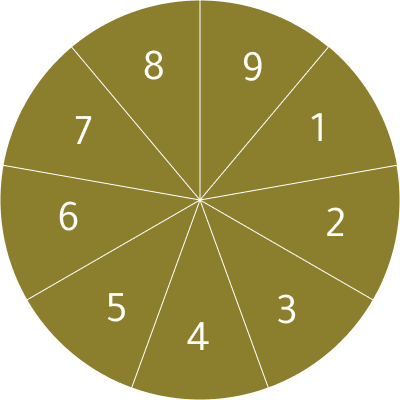
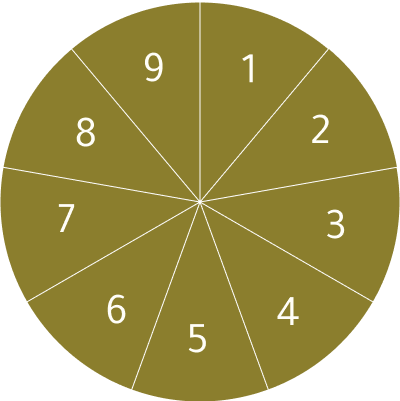
Updates slice angles

diff --git a/lib/src/lib.rs b/lib/src/lib.rs
@@ -49,6 +49,15 @@ const SLICE_6: &[u8] = include_bytes!("../../assets/slice_6.png");
 const SLICE_7: &[u8] = include_bytes!("../../assets/slice_7.png");
 const SLICE_8: &[u8] = include_bytes!("../../assets/slice_8.png");
 const SLICE_9: &[u8] = include_bytes!("../../assets/slice_9.png");
+//const SLICE_DISABLED_1: &[u8] = include_bytes!("../../assets/slice_disabled_1.png");
+//const SLICE_DISABLED_2: &[u8] = include_bytes!("../../assets/slice_disabled_2.png");
+//const SLICE_DISABLED_3: &[u8] = include_bytes!("../../assets/slice_disabled_3.png");
+//const SLICE_DISABLED_4: &[u8] = include_bytes!("../../assets/slice_disabled_4.png");
+//const SLICE_DISABLED_5: &[u8] = include_bytes!("../../assets/slice_disabled_5.png");
+//const SLICE_DISABLED_6: &[u8] = include_bytes!("../../assets/slice_disabled_6.png");
+//const SLICE_DISABLED_7: &[u8] = include_bytes!("../../assets/slice_disabled_7.png");
+//const SLICE_DISABLED_8: &[u8] = include_bytes!("../../assets/slice_disabled_8.png");
+//const SLICE_DISABLED_9: &[u8] = include_bytes!("../../assets/slice_disabled_9.png");
 const TOP_LABEL: &[u8] = include_bytes!("../../assets/top_label.png");
 const WALL: &[u8] = include_bytes!("../../assets/wall.png");
 const WHEEL: &[u8] = include_bytes!("../../assets/wheel.png");
@@ -76,15 +85,24 @@ pub struct Images {
     logo: Handle<Image>,
     mode_slider: Handle<Image>,
     scroll: Handle<Image>,
-    slice_1: Handle<Image>,
-    slice_2: Handle<Image>,
-    slice_3: Handle<Image>,
-    slice_4: Handle<Image>,
-    slice_5: Handle<Image>,
-    slice_6: Handle<Image>,
-    slice_7: Handle<Image>,
-    slice_8: Handle<Image>,
-    slice_9: Handle<Image>,
+    slice_active_1: Handle<Image>,
+    slice_active_2: Handle<Image>,
+    slice_active_3: Handle<Image>,
+    slice_active_4: Handle<Image>,
+    slice_active_5: Handle<Image>,
+    slice_active_6: Handle<Image>,
+    slice_active_7: Handle<Image>,
+    slice_active_8: Handle<Image>,
+    slice_active_9: Handle<Image>,
+    //slice_disabled_1: Handle<Image>,
+    //slice_disabled_2: Handle<Image>,
+    //slice_disabled_3: Handle<Image>,
+    //slice_disabled_4: Handle<Image>,
+    //slice_disabled_5: Handle<Image>,
+    //slice_disabled_6: Handle<Image>,
+    //slice_disabled_7: Handle<Image>,
+    //slice_disabled_8: Handle<Image>,
+    //slice_disabled_9: Handle<Image>,
     top_label: Handle<Image>,
     wall: Handle<Image>,
     wheel: Handle<Image>,
@@ -267,15 +285,15 @@ fn setup(
         logo: images.add(load_png(LOGO)),
         mode_slider: images.add(load_png(MODE_SLIDER)),
         scroll: images.add(load_png(SCROLL)),
-        slice_1: images.add(load_png(SLICE_1)),
-        slice_2: images.add(load_png(SLICE_2)),
-        slice_3: images.add(load_png(SLICE_3)),
-        slice_4: images.add(load_png(SLICE_4)),
-        slice_5: images.add(load_png(SLICE_5)),
-        slice_6: images.add(load_png(SLICE_6)),
-        slice_7: images.add(load_png(SLICE_7)),
-        slice_8: images.add(load_png(SLICE_8)),
-        slice_9: images.add(load_png(SLICE_9)),
+        slice_active_1: images.add(load_png(SLICE_1)),
+        slice_active_2: images.add(load_png(SLICE_2)),
+        slice_active_3: images.add(load_png(SLICE_3)),
+        slice_active_4: images.add(load_png(SLICE_4)),
+        slice_active_5: images.add(load_png(SLICE_5)),
+        slice_active_6: images.add(load_png(SLICE_6)),
+        slice_active_7: images.add(load_png(SLICE_7)),
+        slice_active_8: images.add(load_png(SLICE_8)),
+        slice_active_9: images.add(load_png(SLICE_9)),
         top_label: images.add(load_png(TOP_LABEL)),
         wall: images.add(load_png(WALL)),
         wheel: images.add(load_png(WHEEL)),
@@ -299,13 +317,7 @@ fn setup(
     highscore_screen_setup(&mut highscore_screen, &fonts, &game, &highscores, &images);
 
     let mut settings_screen = spawn_screen(&mut commands, ScreenState::Settings);
-    settings_screen_setup(
-        &mut settings_screen,
-        &mut meshes,
-        &mut materials,
-        &fonts,
-        &settings,
-    );
+    settings_screen_setup(&mut settings_screen, &fonts, &images, &settings);
 
     // This screen is just there so there is no empty space in the transition
     // from highscore back to the main menu.

diff --git a/lib/src/menus/settings_menu.rs b/lib/src/menus/settings_menu.rs
@@ -1,5 +1,5 @@
 use super::{ButtonBuilder, SettingsToggle, SettingsToggleBuilder};
-use crate::{constants::*, ui::*, Fonts, ScreenState, Settings};
+use crate::{constants::*, ui::*, Fonts, Images, ScreenState, Settings};
 use bevy::{ecs::system::EntityCommands, prelude::*};
 
 #[derive(Component)]
@@ -9,51 +9,55 @@ pub enum SettingsButtonAction {
 
 pub fn settings_screen_setup(
     settings_screen: &mut EntityCommands,
-    meshes: &mut Assets<Mesh>,
-    materials: &mut Assets<ColorMaterial>,
     fonts: &Fonts,
+    images: &Images,
     settings: &Settings,
 ) {
     settings_screen.with_children(|screen| {
-        spawn_settings(screen, meshes, materials, fonts, settings);
+        spawn_settings(screen, fonts, images, settings);
     });
 }
 
 pub fn spawn_settings(
     parent: &mut ChildBuilder,
-    meshes: &mut Assets<Mesh>,
-    materials: &mut Assets<ColorMaterial>,
     fonts: &Fonts,
+    images: &Images,
     settings: &Settings,
 ) {
     use SettingsButtonAction::*;
     use SettingsToggle::*;
 
-    parent.spawn(FlexLeafBundle::from_style(FlexItemStyle::fixed_size(
-        Val::Auto,
-        Val::Vmin(8.),
-    )));
+    parent.spawn(FlexLeafBundle::from_style(FlexItemStyle::available_size()));
 
-    let mut toggles = SettingsToggleBuilder::new(fonts, meshes, materials);
-    toggles.build_settings_toggle(
-        parent,
-        settings,
-        "Allow numbers in range",
-        AllowInvalidWheelNumbers,
-    );
+    parent
+        .spawn(FlexBundle::new(
+            FlexItemStyle::available_size(),
+            FlexContainerStyle::column().with_padding(Sides::vertical(Val::Auto)),
+        ))
+        .with_children(|parent| {
+            let mut toggles = SettingsToggleBuilder::new(fonts, images);
+            toggles.build_settings_toggle(parent, settings, "Wheel swipe aid", EnableWheelAid);
 
-    toggles.build_settings_toggle(
-        parent,
-        settings,
-        "Highlight cells in range",
-        HighlightSelectionLines,
-    );
+            toggles.build_settings_toggle(
+                parent,
+                settings,
+                "Selected cell highlight",
+                SelectedCellHighlight,
+            );
 
-    toggles.build_settings_toggle(parent, settings, "Show mistakes", ShowMistakes);
+            toggles.build_settings_toggle(parent, settings, "Show mistakes", ShowMistakes);
+        });
 
-    let button_size = FlexItemStyle::fixed_size(Val::Vmin(50.), Val::Vmin(10.));
-    let buttons = ButtonBuilder::new(fonts, button_size);
-    buttons.build_selected_with_text_and_action(parent, "Back", Back);
+    parent
+        .spawn(FlexBundle::new(
+            FlexItemStyle::available_size(),
+            FlexContainerStyle::column().with_padding(Sides::vertical(Val::Auto)),
+        ))
+        .with_children(|parent| {
+            let button_size = FlexItemStyle::fixed_size(Val::Vmin(50.), Val::Vmin(10.));
+            let buttons = ButtonBuilder::new(fonts, button_size);
+            buttons.build_selected_with_text_and_action(parent, "Back", Back);
+        });
 }
 
 pub fn settings_screen_button_actions(
@@ -76,11 +80,11 @@ pub fn settings_toggle_actions(
     for (interaction, toggle) in &query {
         if *interaction == Interaction::Pressed {
             match toggle {
-                SettingsToggle::AllowInvalidWheelNumbers => {
-                    settings.allow_invalid_wheel_numbers = !settings.allow_invalid_wheel_numbers;
+                SettingsToggle::EnableWheelAid => {
+                    settings.enable_wheel_aid = !settings.enable_wheel_aid;
                 }
-                SettingsToggle::HighlightSelectionLines => {
-                    settings.highlight_selection_lines = !settings.highlight_selection_lines;
+                SettingsToggle::SelectedCellHighlight => {
+                    settings.selected_cell_highlight = !settings.selected_cell_highlight;
                 }
                 SettingsToggle::ShowMistakes => {
                     settings.show_mistakes = !settings.show_mistakes;

diff --git a/lib/src/game/wheel.rs b/lib/src/game/wheel.rs
@@ -54,15 +54,15 @@ impl SliceHandles {
     pub fn load(images: &Images) -> Self {
         Self {
             slices: [
-                images.slice_1.clone(),
-                images.slice_2.clone(),
-                images.slice_3.clone(),
-                images.slice_4.clone(),
-                images.slice_5.clone(),
-                images.slice_6.clone(),
-                images.slice_7.clone(),
-                images.slice_8.clone(),
-                images.slice_9.clone(),
+                images.slice_active_1.clone(),
+                images.slice_active_2.clone(),
+                images.slice_active_3.clone(),
+                images.slice_active_4.clone(),
+                images.slice_active_5.clone(),
+                images.slice_active_6.clone(),
+                images.slice_active_7.clone(),
+                images.slice_active_8.clone(),
+                images.slice_active_9.clone(),
             ],
         }
     }
@@ -180,7 +180,7 @@ pub fn on_wheel_input(
                 }
 
                 let selected_number = get_selected_number(&wheel);
-                let may_select_number = settings.allow_invalid_wheel_numbers
+                let may_select_number = settings.enable_wheel_aid
                     || match selected_number {
                         Some(n) => game.current.may_set(wheel.cell.0, wheel.cell.1, n),
                         None => true, // It should always be allowed to deselect.
@@ -364,7 +364,7 @@ fn get_selected_number(wheel: &Wheel) -> Option<NonZeroU8> {
     let touch_radius = (diff_x * diff_x + diff_y * diff_y).sqrt();
 
     if touch_radius > 0.08 && touch_radius < 0.5 {
-        let n = (11.25 - ((angle + 1.047) / PI * 4.5)).round() as u8 % 9 + 1;
+        let n = (11.25 - (angle / PI * 4.5)).round() as u8 % 9 + 1;
         Some(NonZeroU8::new(n).unwrap())
     } else {
         None

diff --git a/lib/src/menus/settings_toggle.rs b/lib/src/menus/settings_toggle.rs
@@ -1,18 +1,18 @@
-use crate::{constants::*, ui::*, Fonts, Settings};
+use crate::{constants::*, ui::*, Fonts, Images, Settings};
 use bevy::{prelude::*, sprite::Anchor};
 
 #[derive(Clone, Component, Copy)]
 pub enum SettingsToggle {
-    AllowInvalidWheelNumbers,
-    HighlightSelectionLines,
+    EnableWheelAid,
+    SelectedCellHighlight,
     ShowMistakes,
 }
 
 impl SettingsToggle {
     pub fn is_enabled(&self, settings: &Settings) -> bool {
         match self {
-            SettingsToggle::AllowInvalidWheelNumbers => settings.allow_invalid_wheel_numbers,
-            SettingsToggle::HighlightSelectionLines => settings.highlight_selection_lines,
+            SettingsToggle::EnableWheelAid => settings.enable_wheel_aid,
+            SettingsToggle::SelectedCellHighlight => settings.selected_cell_highlight,
             SettingsToggle::ShowMistakes => settings.show_mistakes,
         }
     }
@@ -25,11 +25,7 @@ pub struct SettingsToggleBuilder<'a> {
 }
 
 impl<'a> SettingsToggleBuilder<'a> {
-    pub fn new(
-        fonts: &Fonts,
-        meshes: &'a mut Assets<Mesh>,
-        materials: &'a mut Assets<ColorMaterial>,
-    ) -> Self {
+    pub fn new(fonts: &Fonts, images: &'a Images) -> Self {
         let container_style = FlexItemStyle {
             flex_base: Size::new(Val::Vmin(90.), Val::Vmin(11.)),
             margin: Size::all(Val::Vmin(2.)),
@@ -38,14 +34,14 @@ impl<'a> SettingsToggleBuilder<'a> {
 
         let text_style = TextStyle {
             font: fonts.medium.clone(),
-            font_size: 60.,
+            font_size: 50.,
             color: COLOR_SECONDARY_BUTTON_TEXT,
         };
 
         Self {
             container_style,
             text_style,
-            toggle_builder: ToggleBuilder::new(meshes, materials),
+            toggle_builder: ToggleBuilder::new(images),
         }
     }
 

diff --git a/lib/src/settings.rs b/lib/src/settings.rs
@@ -6,22 +6,34 @@ use std::fs;
 
 #[derive(Deserialize, Resource, Serialize)]
 pub struct Settings {
-    #[serde(default)]
-    pub allow_invalid_wheel_numbers: bool,
+    #[serde(default = "default_enable_wheel_aid")]
+    pub enable_wheel_aid: bool,
 
-    #[serde(default)]
-    pub highlight_selection_lines: bool,
+    #[serde(default = "default_selected_cell_highlight")]
+    pub selected_cell_highlight: bool,
 
-    #[serde(default)]
+    #[serde(default = "default_show_mistakes")]
     pub show_mistakes: bool,
+}
+
+fn default_enable_wheel_aid() -> bool {
+    true
+}
+
+fn default_selected_cell_highlight() -> bool {
+    true
+}
+
+fn default_show_mistakes() -> bool {
+    true
 }
 
 impl Default for Settings {
     fn default() -> Self {
         Self {
-            allow_invalid_wheel_numbers: true,
-            highlight_selection_lines: true,
-            show_mistakes: true,
+            enable_wheel_aid: default_enable_wheel_aid(),
+            selected_cell_highlight: default_selected_cell_highlight(),
+            show_mistakes: default_show_mistakes(),
         }
     }
 }
@@ -43,7 +55,8 @@ impl Settings {
     pub fn save(&self) {
         self.to_json()
             .and_then(|json| {
-                fs::write(ensure_sudoku_dir().join("settings.json"), json).map_err(anyhow::Error::from)
+                fs::write(ensure_sudoku_dir().join("settings.json"), json)
+                    .map_err(anyhow::Error::from)
             })
             .unwrap_or_else(|err| println!("Can't save settings: {err}"));
     }

diff --git a/lib/src/ui/toggles.rs b/lib/src/ui/toggles.rs
@@ -1,6 +1,6 @@
 use super::flex::*;
-use crate::{constants::*, utils::*};
-use bevy::{prelude::*, sprite::MaterialMesh2dBundle};
+use crate::{constants::*, utils::*, Images};
+use bevy::prelude::*;
 
 /// Marker for toggle.
 #[derive(Clone, Component)]
@@ -16,13 +16,12 @@ pub struct ToggleContainer;
 pub struct Enabled;
 
 pub struct ToggleBuilder<'a> {
-    meshes: &'a mut Assets<Mesh>,
-    materials: &'a mut Assets<ColorMaterial>,
+    images: &'a Images,
 }
 
 impl<'a> ToggleBuilder<'a> {
-    pub fn new(meshes: &'a mut Assets<Mesh>, materials: &'a mut Assets<ColorMaterial>) -> Self {
-        Self { meshes, materials }
+    pub fn new(images: &'a Images) -> Self {
+        Self { images }
     }
 
     pub fn build_with_marker(
@@ -37,7 +36,7 @@ impl<'a> ToggleBuilder<'a> {
                 Val::Percent(100.),
             )))
             .with_children(|icon_container| {
-                icon_container.spawn(MaterialMesh2dBundle {
+                /*icon_container.spawn(MaterialMesh2dBundle {
                     mesh: self.meshes.add(shape::Circle::new(0.3).into()).into(),
                     material: self
                         .materials
@@ -66,7 +65,7 @@ impl<'a> ToggleBuilder<'a> {
                         transform: Transform::from_translation(Vec3::new(0., 0., 3.)),
                         ..default()
                     },
-                ));
+                ));*/
             });
     }
 }

diff --git a/lib/src/game/board_numbers.rs b/lib/src/game/board_numbers.rs
@@ -262,7 +262,7 @@ pub(super) fn calculate_highlights(
             }
 
             let selected_cell = game.current.get_by_pos(selected_pos);
-            if settings.highlight_selection_lines && selected_cell.is_some() {
+            if settings.selected_cell_highlight && selected_cell.is_some() {
                 // Find all the cells within range.
                 for pos in 0..81 {
                     if game.current.get_by_pos(pos) == selected_cell {
